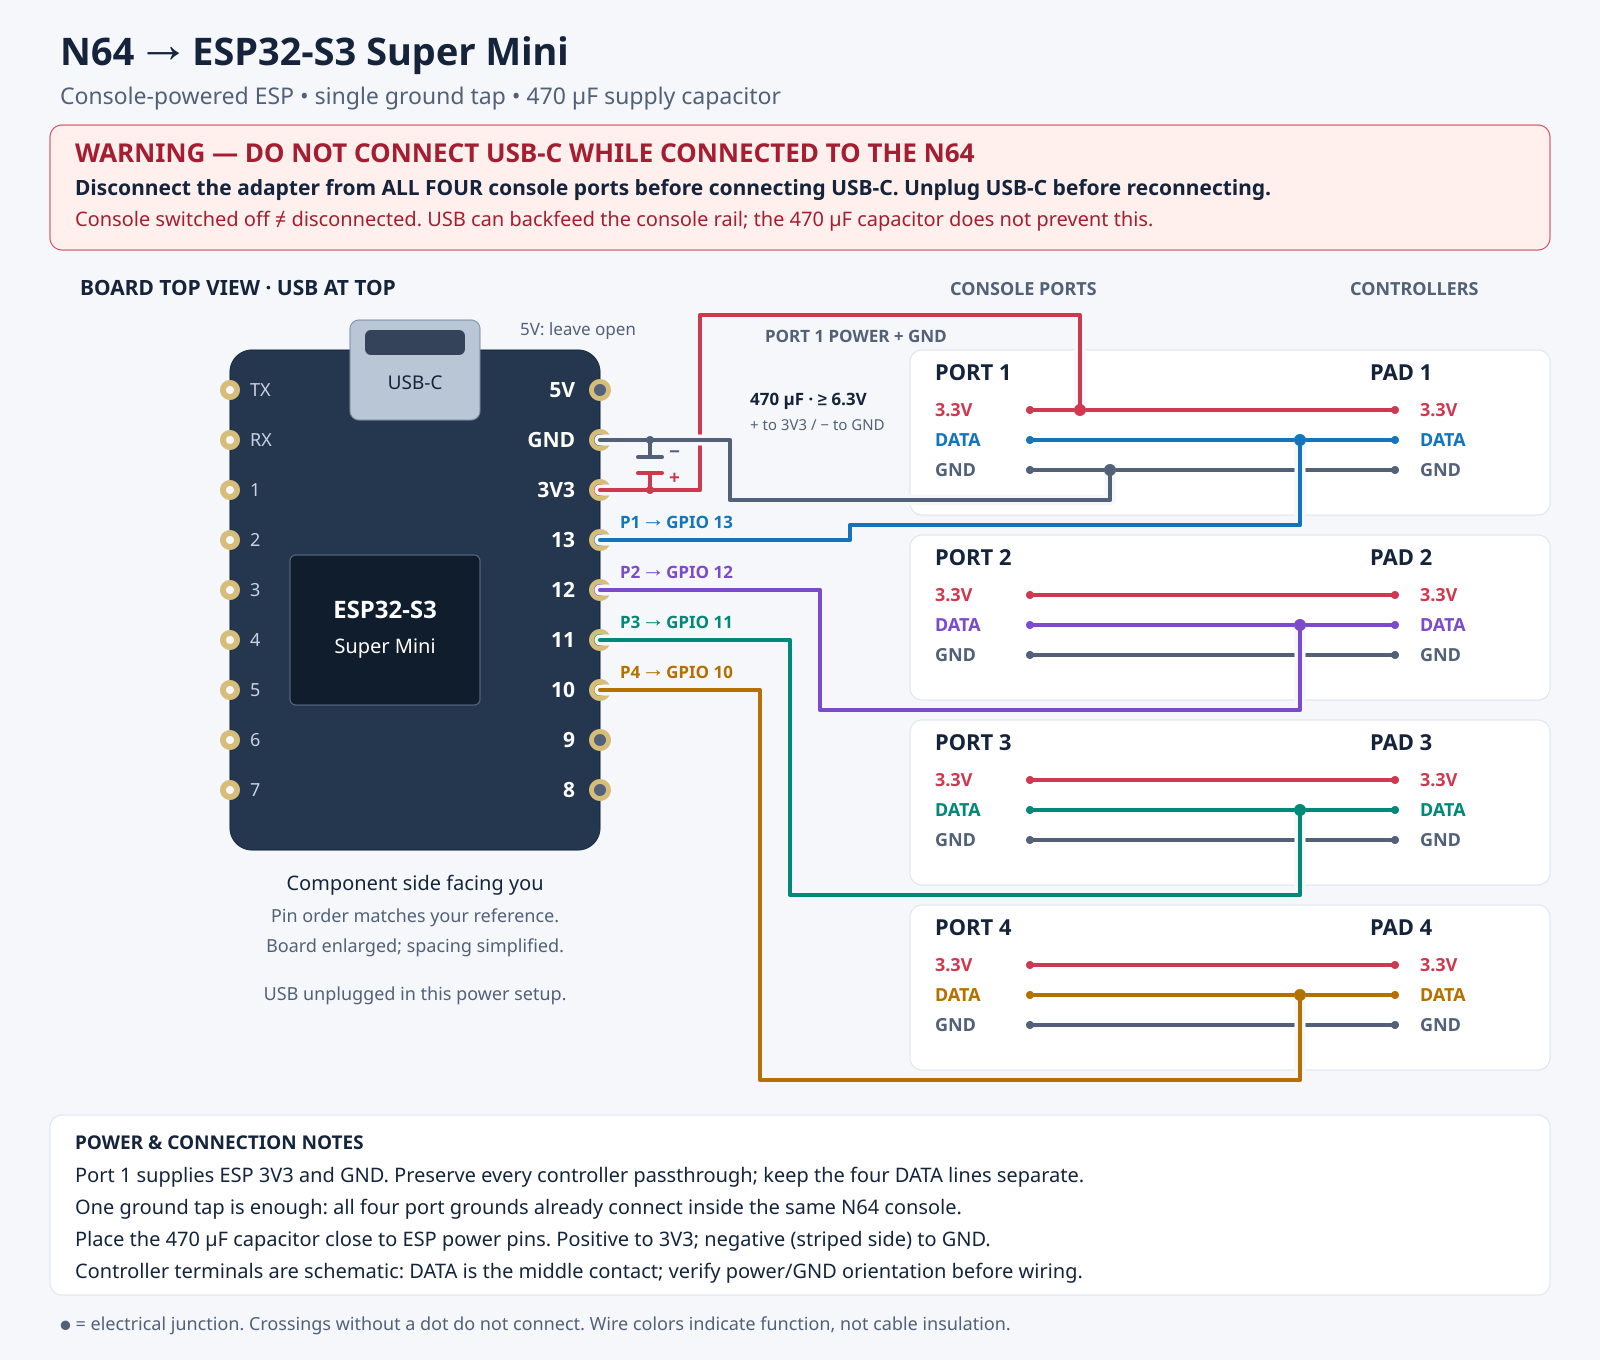
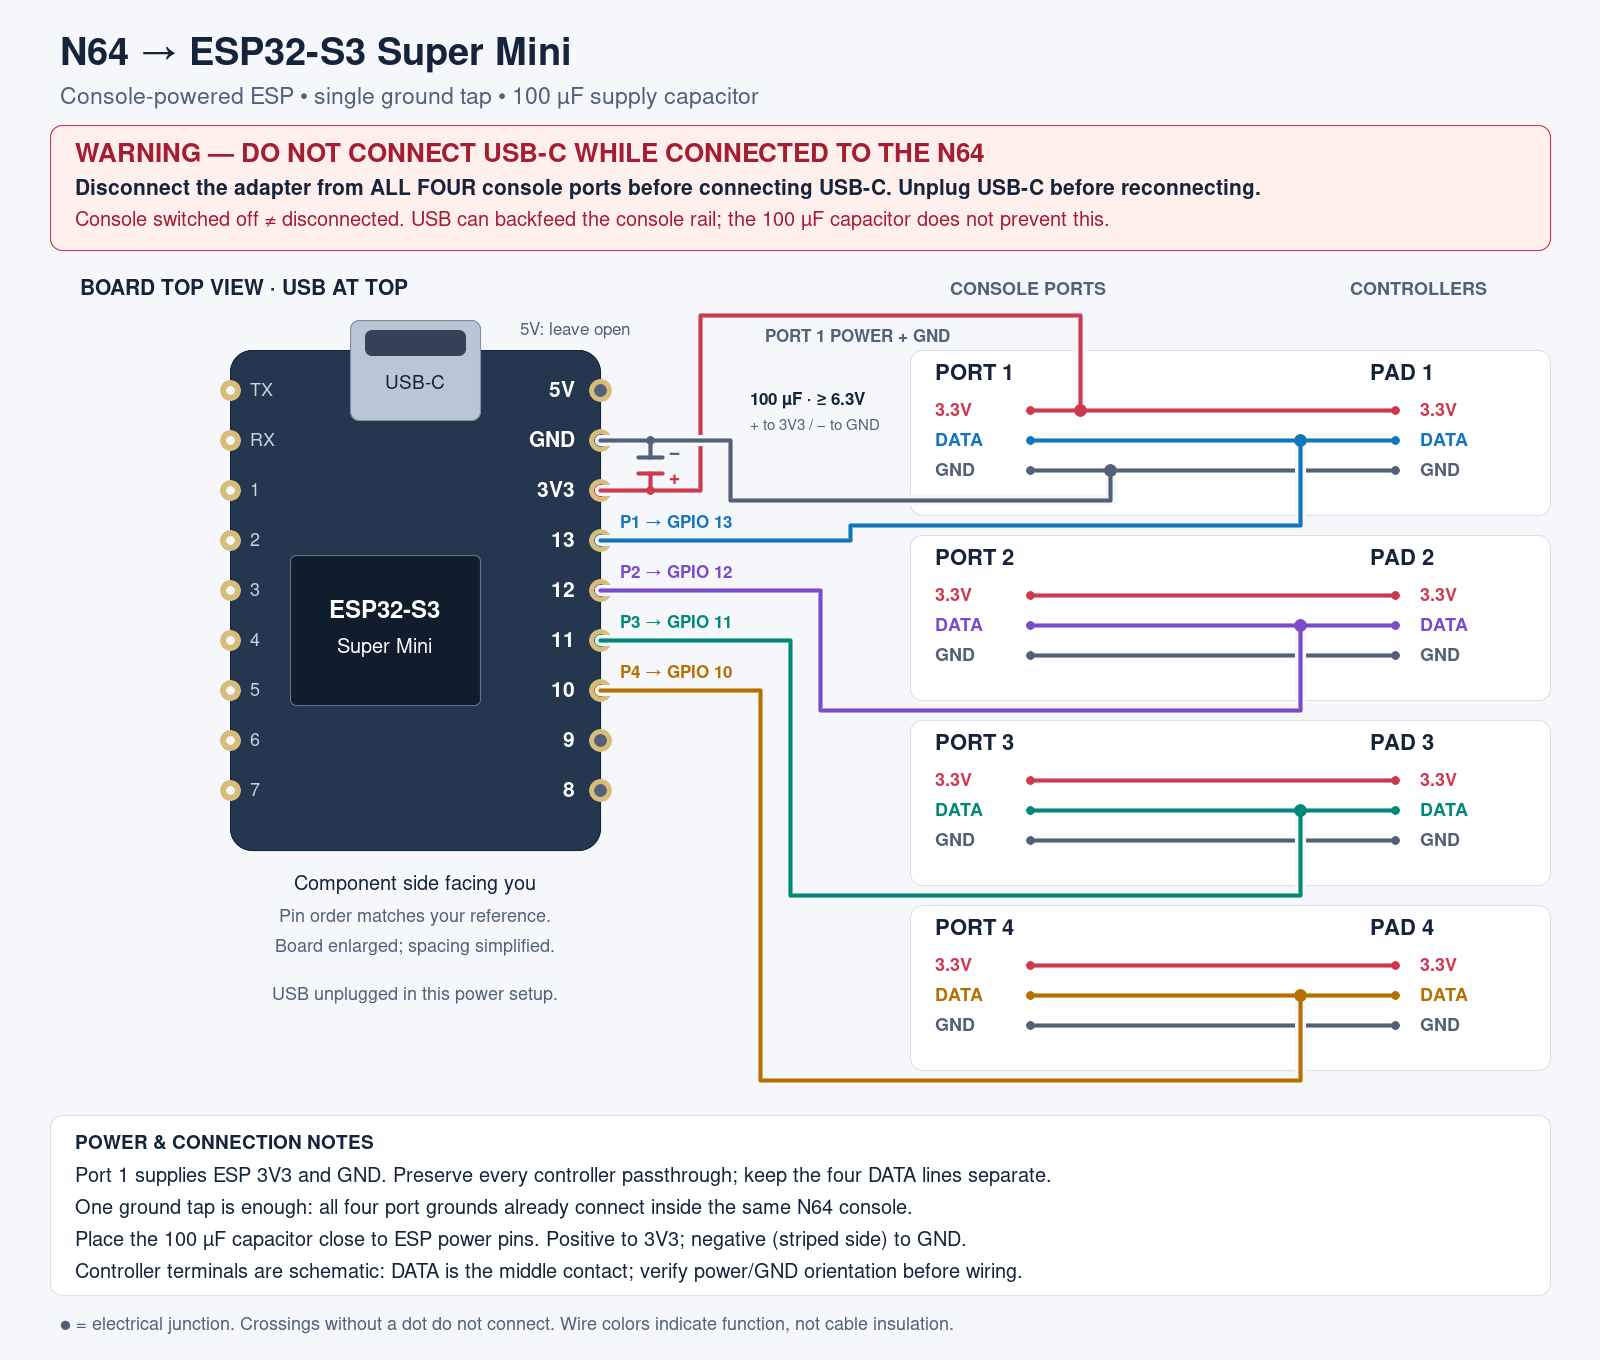
Document the 100 µF supply capacitor

diff --git a/README.md b/README.md
@@ -15,7 +15,7 @@ For one complete four-controller adapter with the [verified v1.4 enclosure](cad/
 | 1            | ESP32-S3 Super Mini                                             | Brains!                                                                                                                                                                                                 |
 | 4            | Standalone female N64 controller connectors                     | [Female connectors used for this build](https://www.aliexpress.com/item/1005008958336033.html).                                                                                                         |
 | 4 male plugs | Male N64 connectors cut from donor cables                       | [Donor cables used for this build](https://www.aliexpress.com/item/1005008510879323.html). Cut off the male ends and remove their outer moulded housings; the enclosure holds the smaller inner bodies. |
-| 1            | 470 µF electrolytic capacitor, rated at least 6.3 V             | Connected across the ESP32's 3V3 and GND, as shown below.                                                                                                                                               |
+| 1            | 100 µF electrolytic capacitor, rated at least 6.3 V             | Connected across the ESP32's 3V3 and GND, as shown below.                                                                                                                                               |
 | 6            | M2 × 20 mm countersunk machine screws / bolts                   | Close the enclosure.                                                                                                                                                                                    |
 | 6            | M2 nuts                                                         | Embedded in the upper shell during the print pause.                                                                                                                                                     |
 | 18           | 2 mm nominal × 8 mm countersunk screws suitable for plastic     | Two for each of the eight connector keepers. And holding the ESP down                                                                                                                                   |
@@ -29,7 +29,7 @@ For one complete four-controller adapter with the [verified v1.4 enclosure](cad/
 > **Do not connect USB-C while the adapter is connected to the N64 console.**
 > Fully disconnect the adapter from **all four console ports** before connecting USB-C to a computer or USB power source. Disconnect USB-C before reconnecting the adapter to the console.
 >
-> **Turning the console off is not enough.** USB power can backfeed the console’s 3.3V rail and potentially damage hardware. The 470 µF capacitor does not prevent backfeeding.
+> **Turning the console off is not enough.** USB power can backfeed the console’s 3.3V rail and potentially damage hardware. The 100 µF capacitor does not prevent backfeeding.
 
 ![Four-controller passthrough wiring](docs/n64-esp32-wiring.png)
 
@@ -48,7 +48,7 @@ The diagram shows the component side of the Super Mini board, with USB at the to
 1. Connect the DATA lines as shown in the diagram and table.
 2. Connect one console port's 3.3V and GND to the ESP32.
    Keep each controller's power and ground passthrough connections.
-3. Connect a **470 µF electrolytic capacitor**, rated at least **6.3V**, across ESP32 3V3 and GND.
+3. Connect a **100 µF electrolytic capacitor**, rated at least **6.3V**, across ESP32 3V3 and GND.
    Place it close to the board with short leads.
    Connect **positive (+) to 3V3**. Connect **negative (striped side) to GND**.
 4. Leave the ESP32 **5V pin unconnected**.
